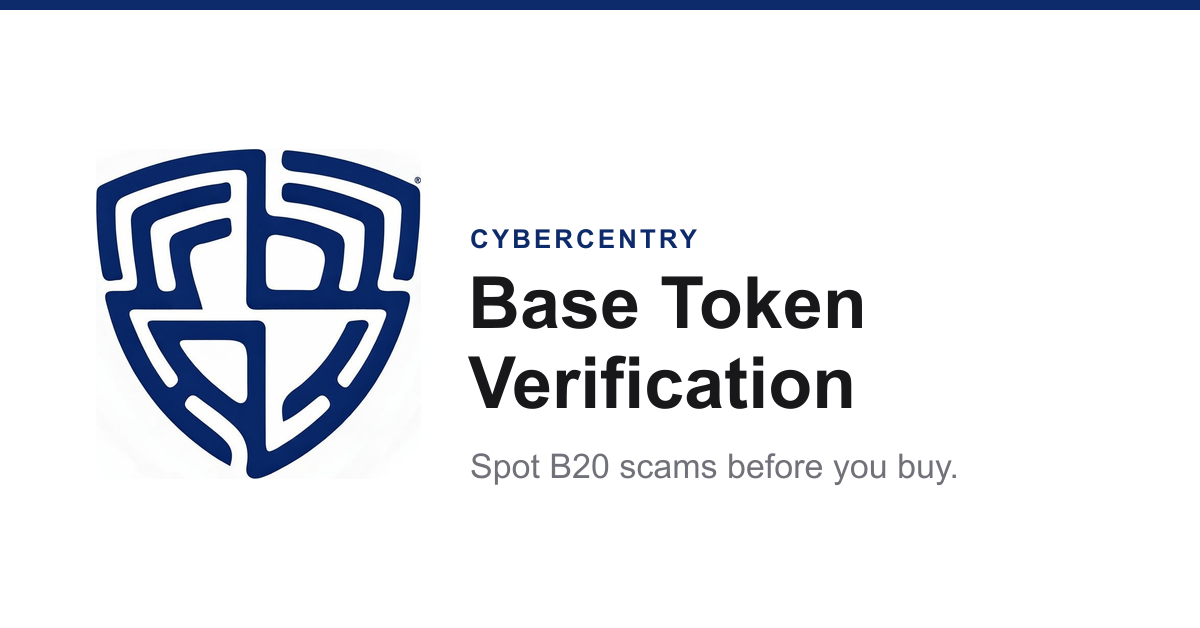
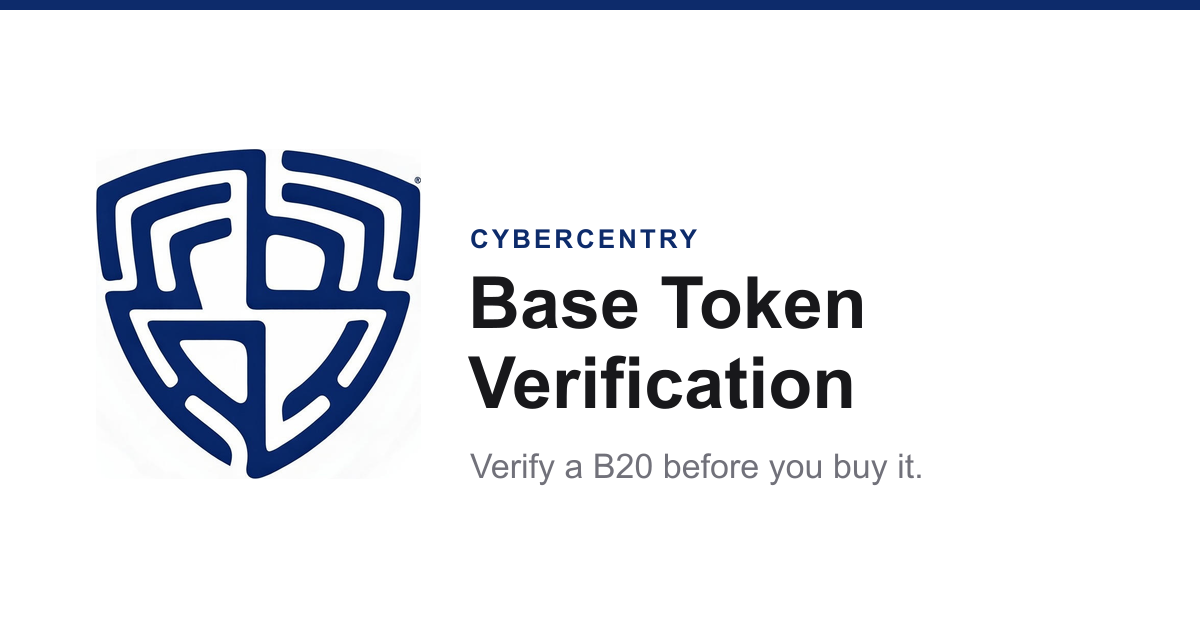
content: finalise tagline/description; capitalise "Seconds"
- tagline "Verify a B20 before you buy it" (30/30)
- description set to the chosen wording (168/170), fits both the manifest
  (170) and the Base.dev listing (180)
- "in seconds" -> "in Seconds" per request, across the manifest
  description, the landing meta and the Base.dev screenshot (regenerated)
- thumbnail subtitle updated to the new tagline

Changed region(s): [[0.37, 0.7261, 0.8017, 0.7866]]

diff --git a/minikit.config.ts b/minikit.config.ts
@@ -33,11 +33,11 @@ export const minikitConfig = {
     // schema's length limits and free of banned characters.
     subtitle: "Base Token Verification",
     description:
-      "Check a B20 token contract before you buy — detect honeypots, freeze-and-seize, live pauses, fake B20s and ticker-impersonation copycats before they cost you.",
+      "Verify any B20 (Base) token before you buy. One check flags honeypots, freeze-and-seize, live pauses, fake B20s, and ticker copycats, plus issuer controls — in Seconds.",
     primaryCategory: "utility",
     heroImageUrl: `${ROOT_URL}/hero-1200x630.png`,
     tags: ["security"],
-    tagline: "Verify before you buy",
+    tagline: "Verify a B20 before you buy it",
     ogTitle: "Cybercentry",
     ogDescription: "Check a B20 token before you buy: honeypots, freeze-and-seize, fake B20s and copycats.",
     ogImageUrl: `${ROOT_URL}/hero-1200x630.png`,

diff --git a/app/page.tsx b/app/page.tsx
@@ -156,7 +156,7 @@ export default function Home() {
               <span className={styles.metaDot} />$1 per check
             </span>
             <span className={styles.metaItem}>
-              <span className={styles.metaDot} />results in seconds
+              <span className={styles.metaDot} />results in Seconds
             </span>
             <span className={styles.metaItem}>
               <span className={styles.metaDot} />Base mainnet
